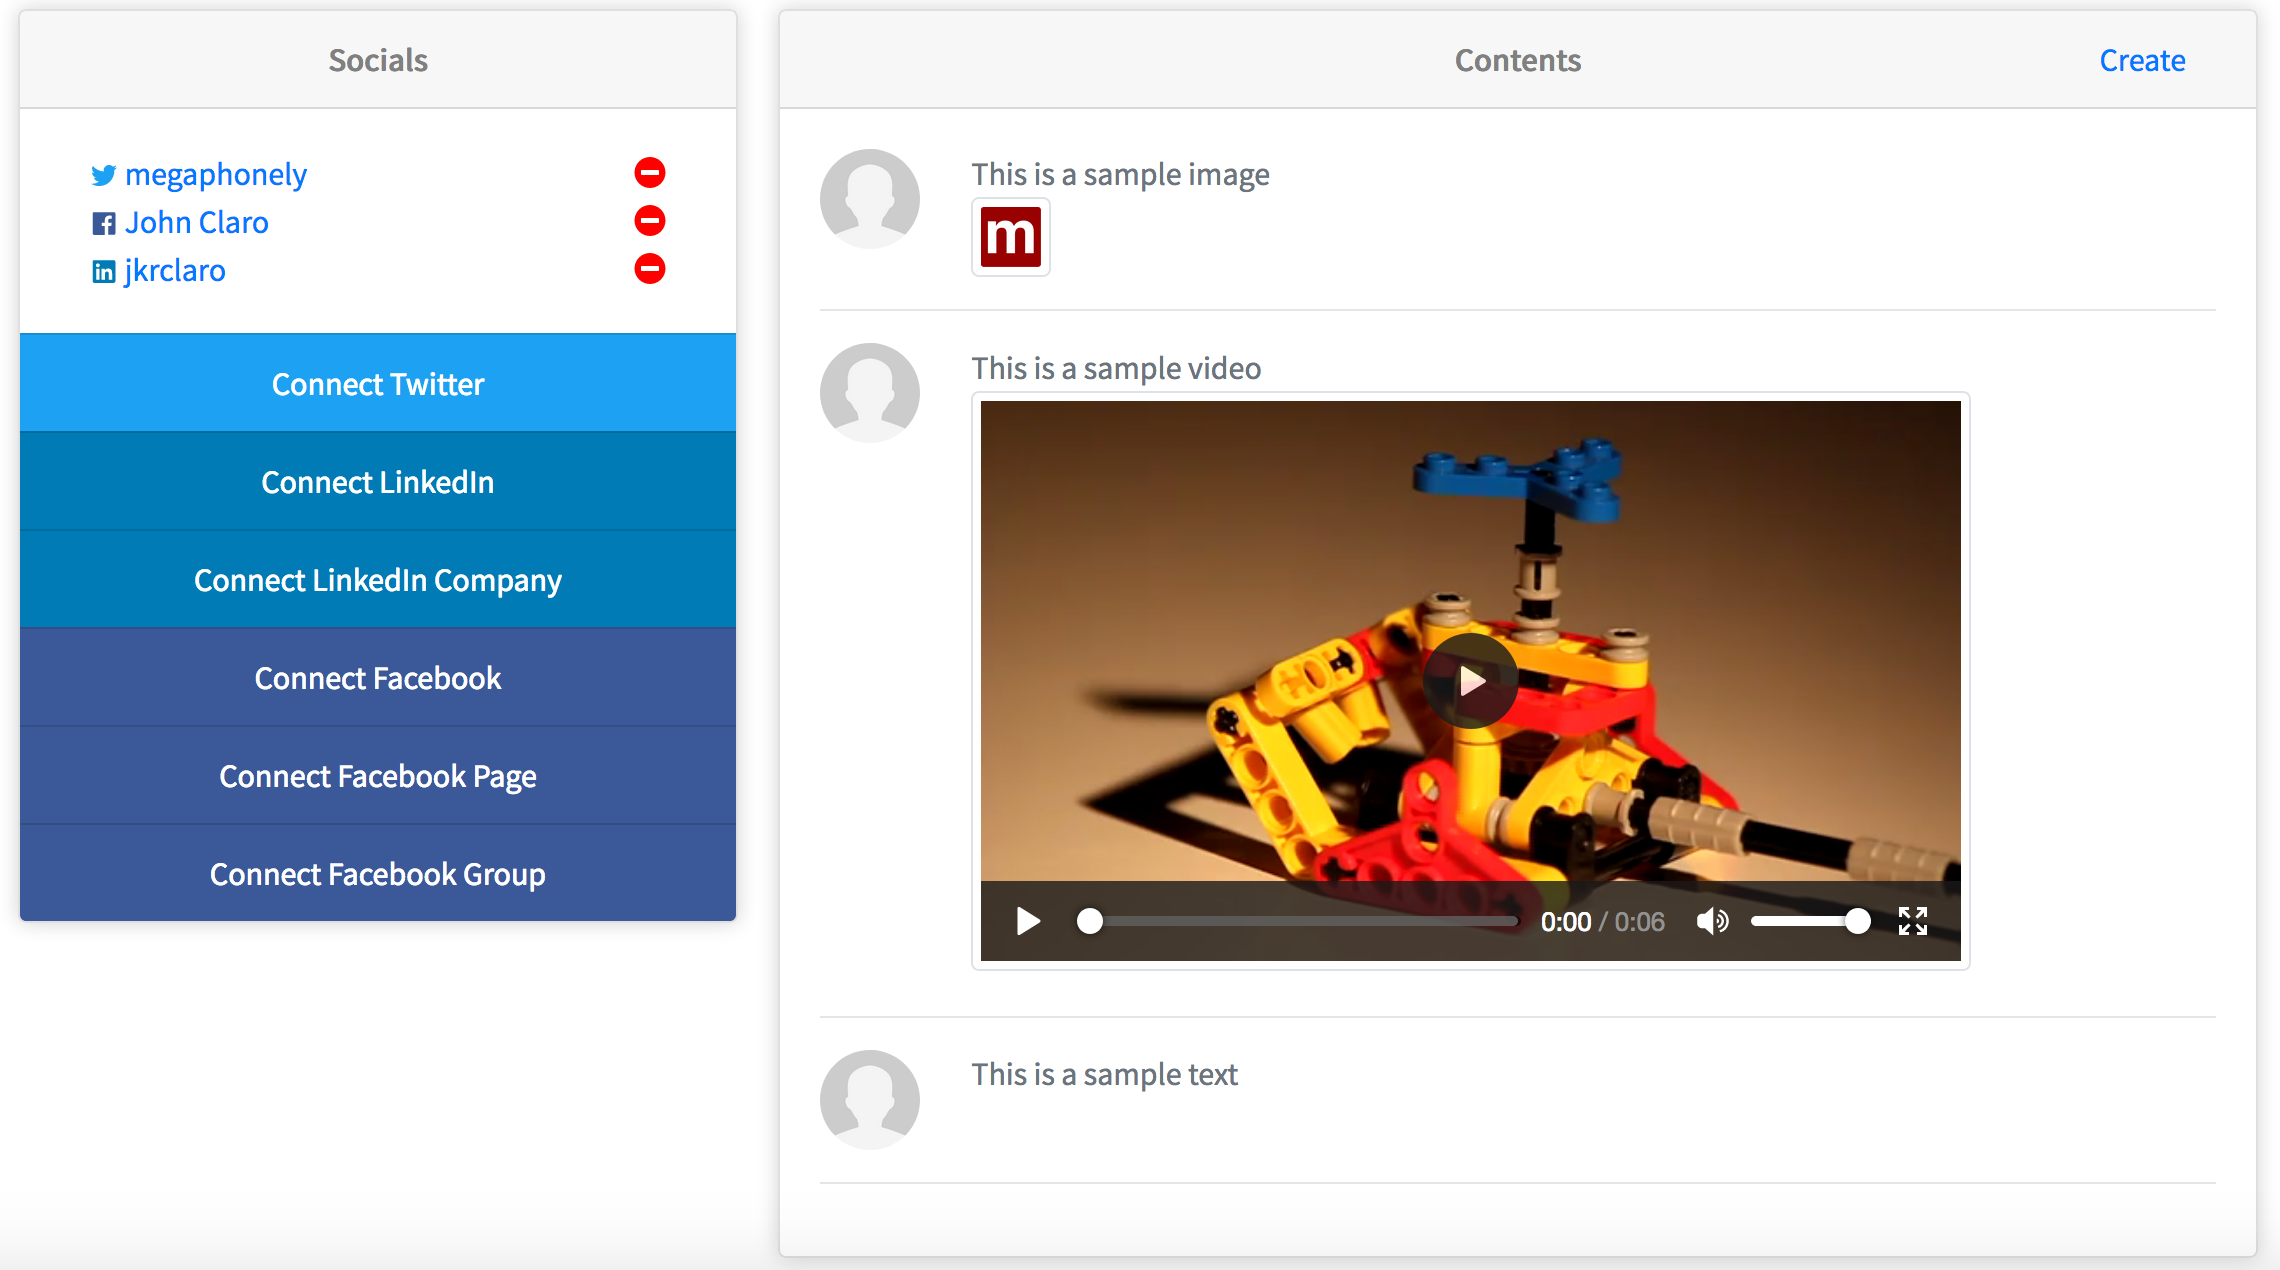
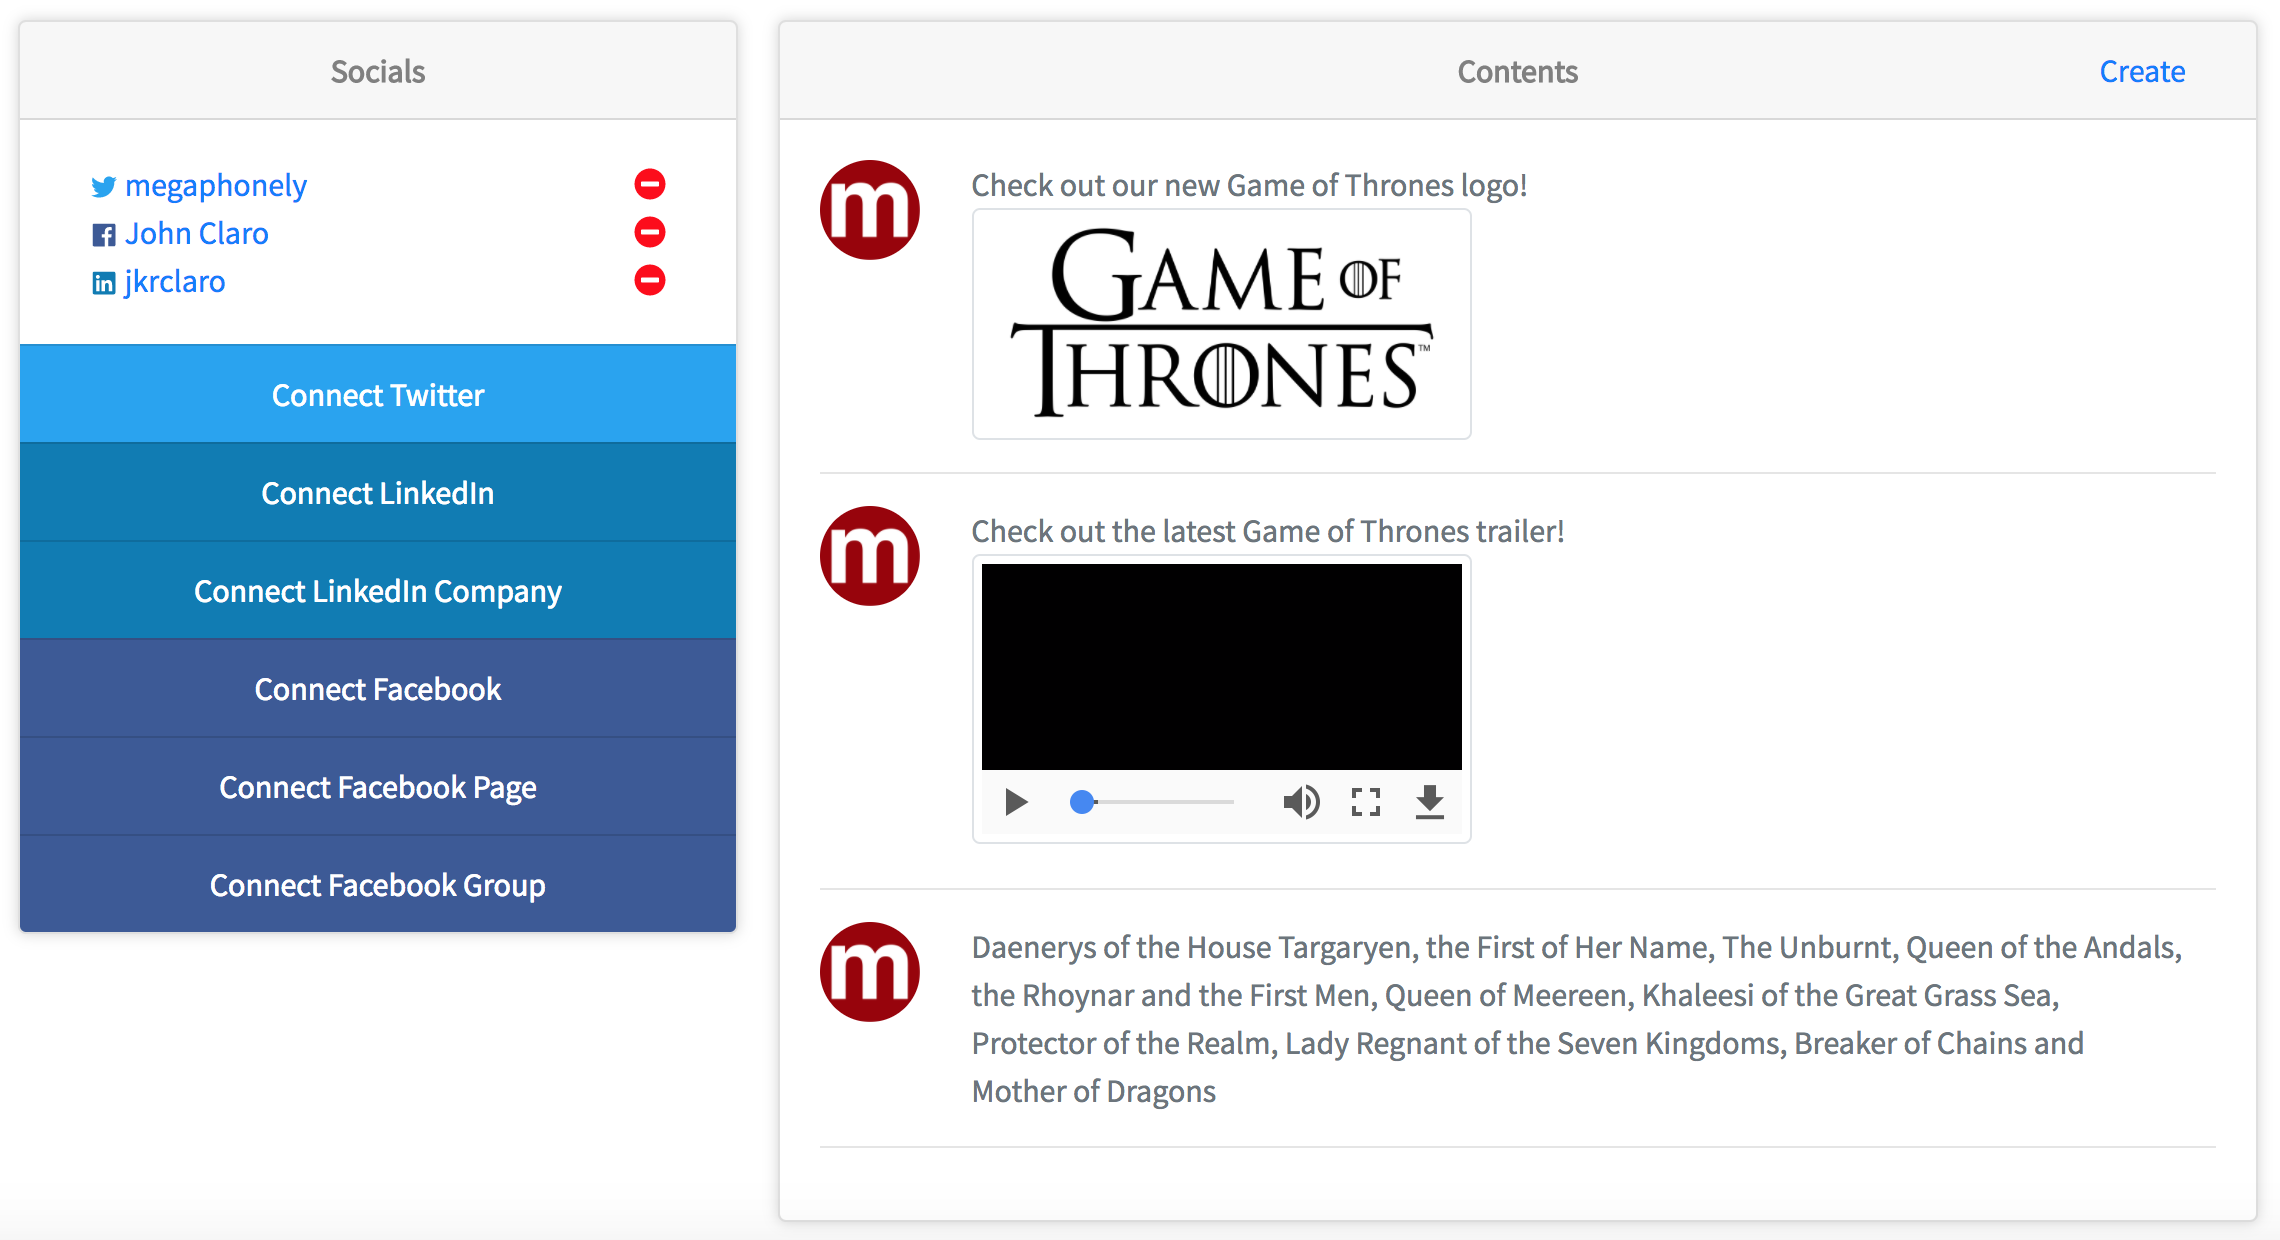
Fix image issue

diff --git a/megaphonely/templates/dashboard.html b/megaphonely/templates/dashboard.html
@@ -4,7 +4,7 @@
 
 {% load static %}
 
-<div class="row">
+<div class="row" style="margin-top: 25px; margin-bottom: 25px;">
     <div class="col-lg-4 card-section">
         <div class="card">
             <div class="card-header">
@@ -101,7 +101,7 @@
                                 <img class="rounded-circle"
                                      height="50"
                                      width="50"
-                                     src="{% static 'megaphonely/img/anonymous.png' %}"/>
+                                     src="{% static 'megaphonely/img/megaphonely2048x2048.png' %}"/>
                             </div>
                             <div class="col-sm-11"
                                  onclick="location.href='{% url 'dashboard:content_update' pk=content.id %}'"
@@ -112,13 +112,14 @@
                                 {% if content.is_image %}
                                     <div class="col-12">
                                         <img class="img-thumbnail img-fluid"
-                                             width="40" height="40"
+                                             width="250" height="40"
                                              src="{% static content.multimedia.url %}"/>
                                     </div>
                                 {% elif content.is_video %}
                                     <div class="col-12">
                                         <video class="img-thumbnail"
-                                               width="400"
+                                               width="250"
+                                               preload="metadata"
                                                src="{% static content.multimedia.url %}"
                                                controls></video>
                                     </div>

diff --git a/megaphonely/templates/home.html b/megaphonely/templates/home.html
@@ -4,7 +4,7 @@
 
 {% load static %}
 
-<div class="col-lg-12">
+<div class="col-lg-12" style="padding: 20px;">
     <div class="row" style="padding: 20px;">
         <div class="col-lg-8">
             <h2 class="heading-font">What is Megaphonely?</h2>
@@ -27,8 +27,10 @@
         </div>
     </div>
     <div class="row" style="padding: 20px;">
-        <img class="col-lg-8 img-fluid"
-             src="{% static 'megaphonely/img/landing-page-1.png' %}"/>
+        <div class="col-lg-8">
+            <img class="img-fluid"
+                 src="{% static 'megaphonely/img/landing-page-1.png' %}"/>
+        </div>
         <div class="col-lg-4">
             <h2 class="heading-font">Why use Megaphonely?</h2>
             <div class="description-caption">
@@ -65,8 +67,9 @@
                 </ul>
             </div>
         </div>
-        <img class="col-lg-8 img-fluid"
-             src="{% static 'megaphonely/img/landing-page-2.png' %}"/>
+        <div class="col-lg-8">
+            <img class="img-fluid" src="{% static 'megaphonely/img/landing-page-2.png' %}"/>
+        </div>
     </div>
 </div>
 {% endblock %}
